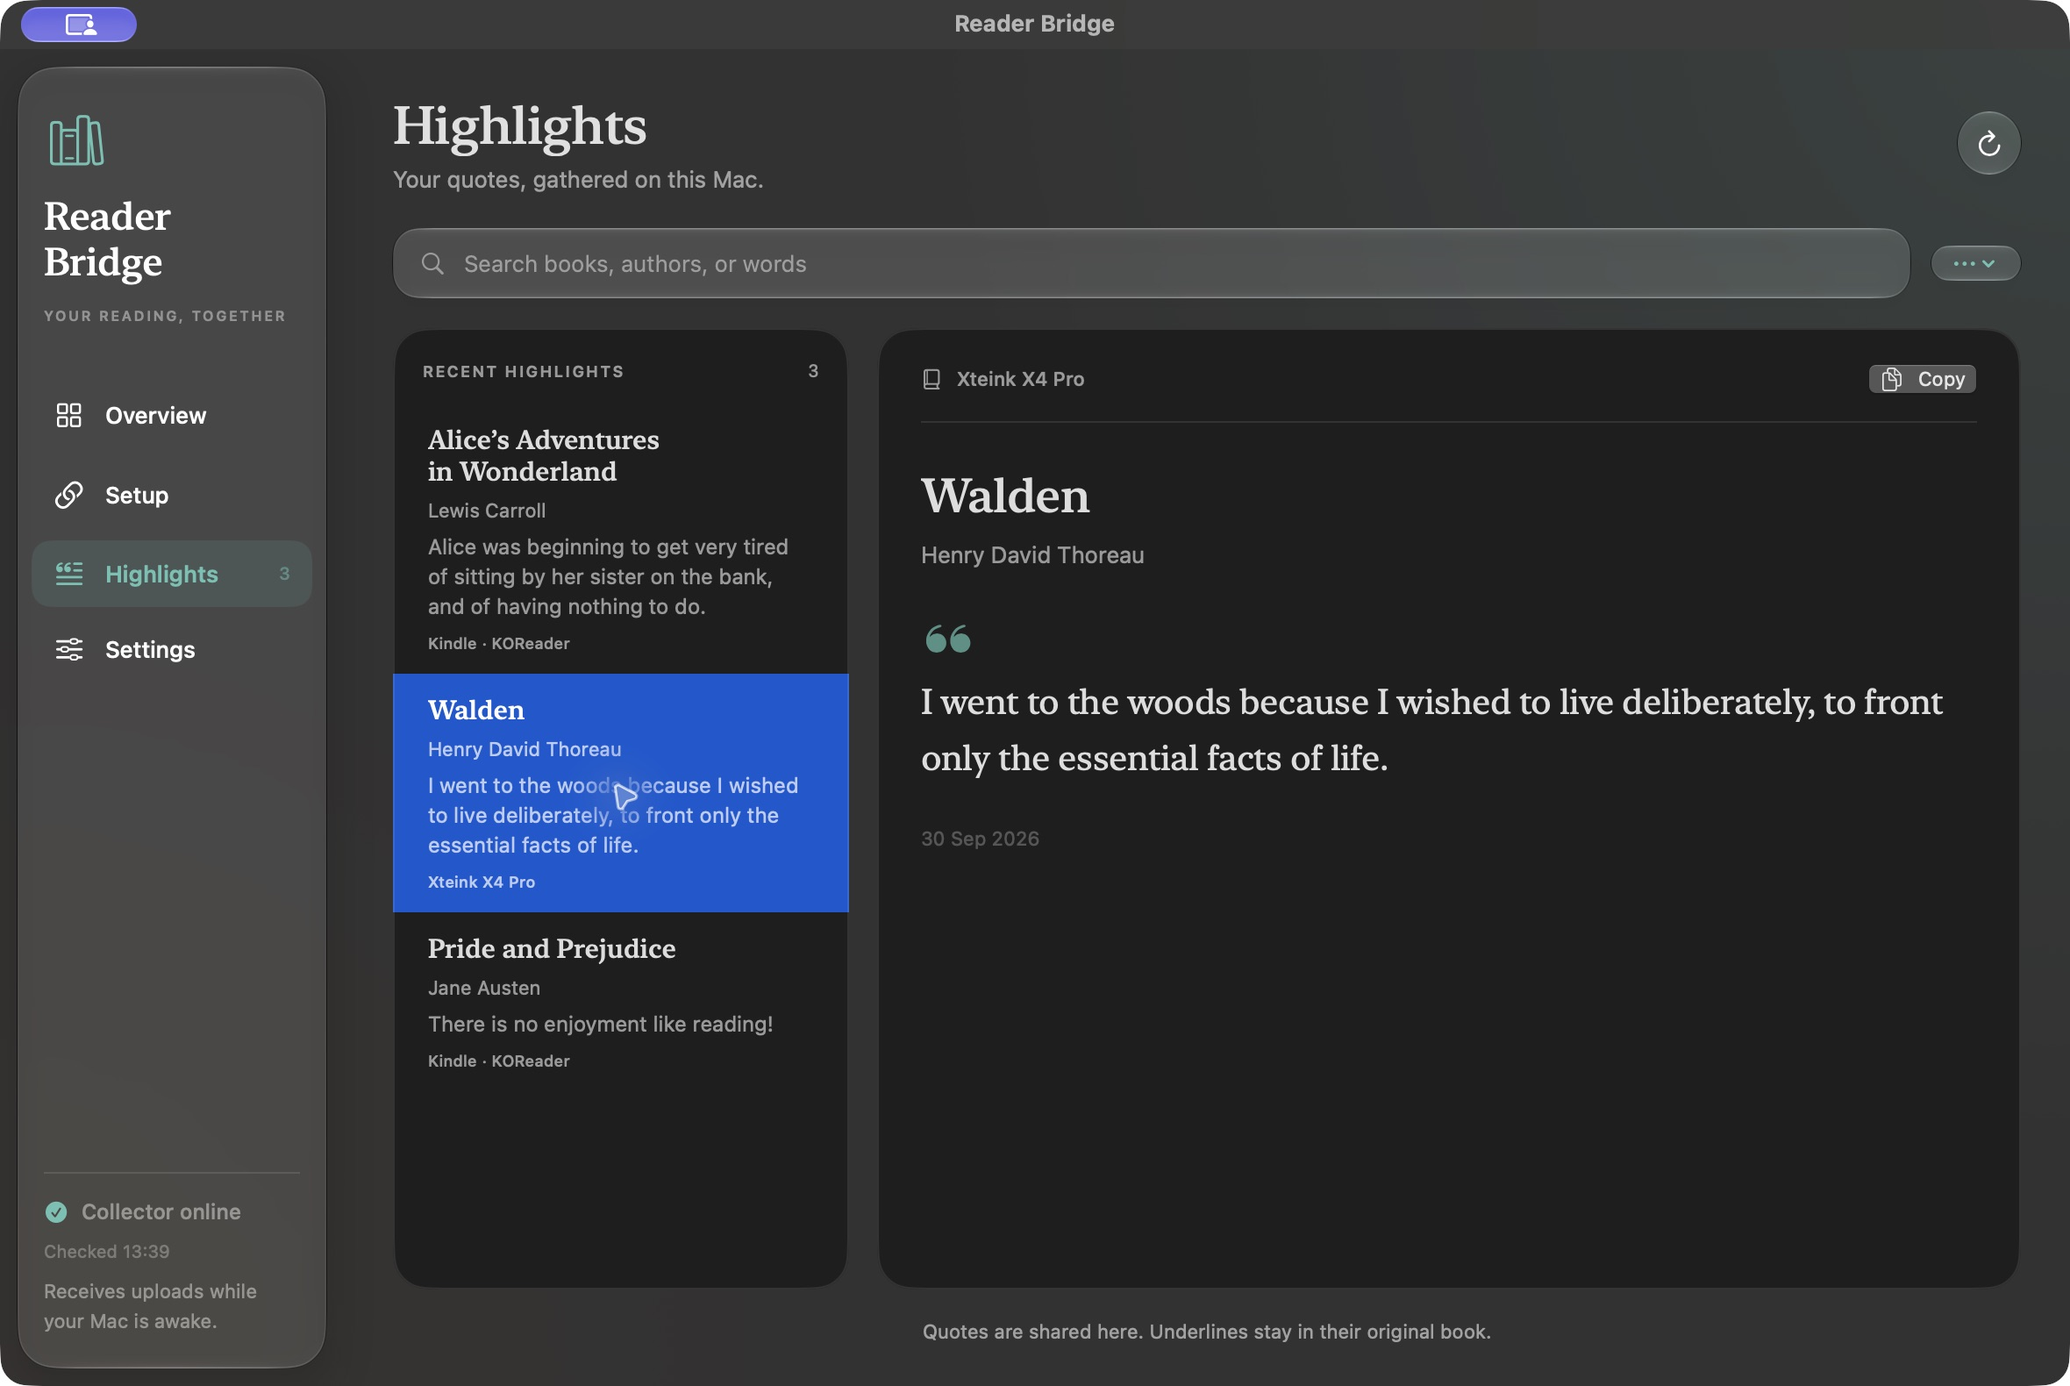
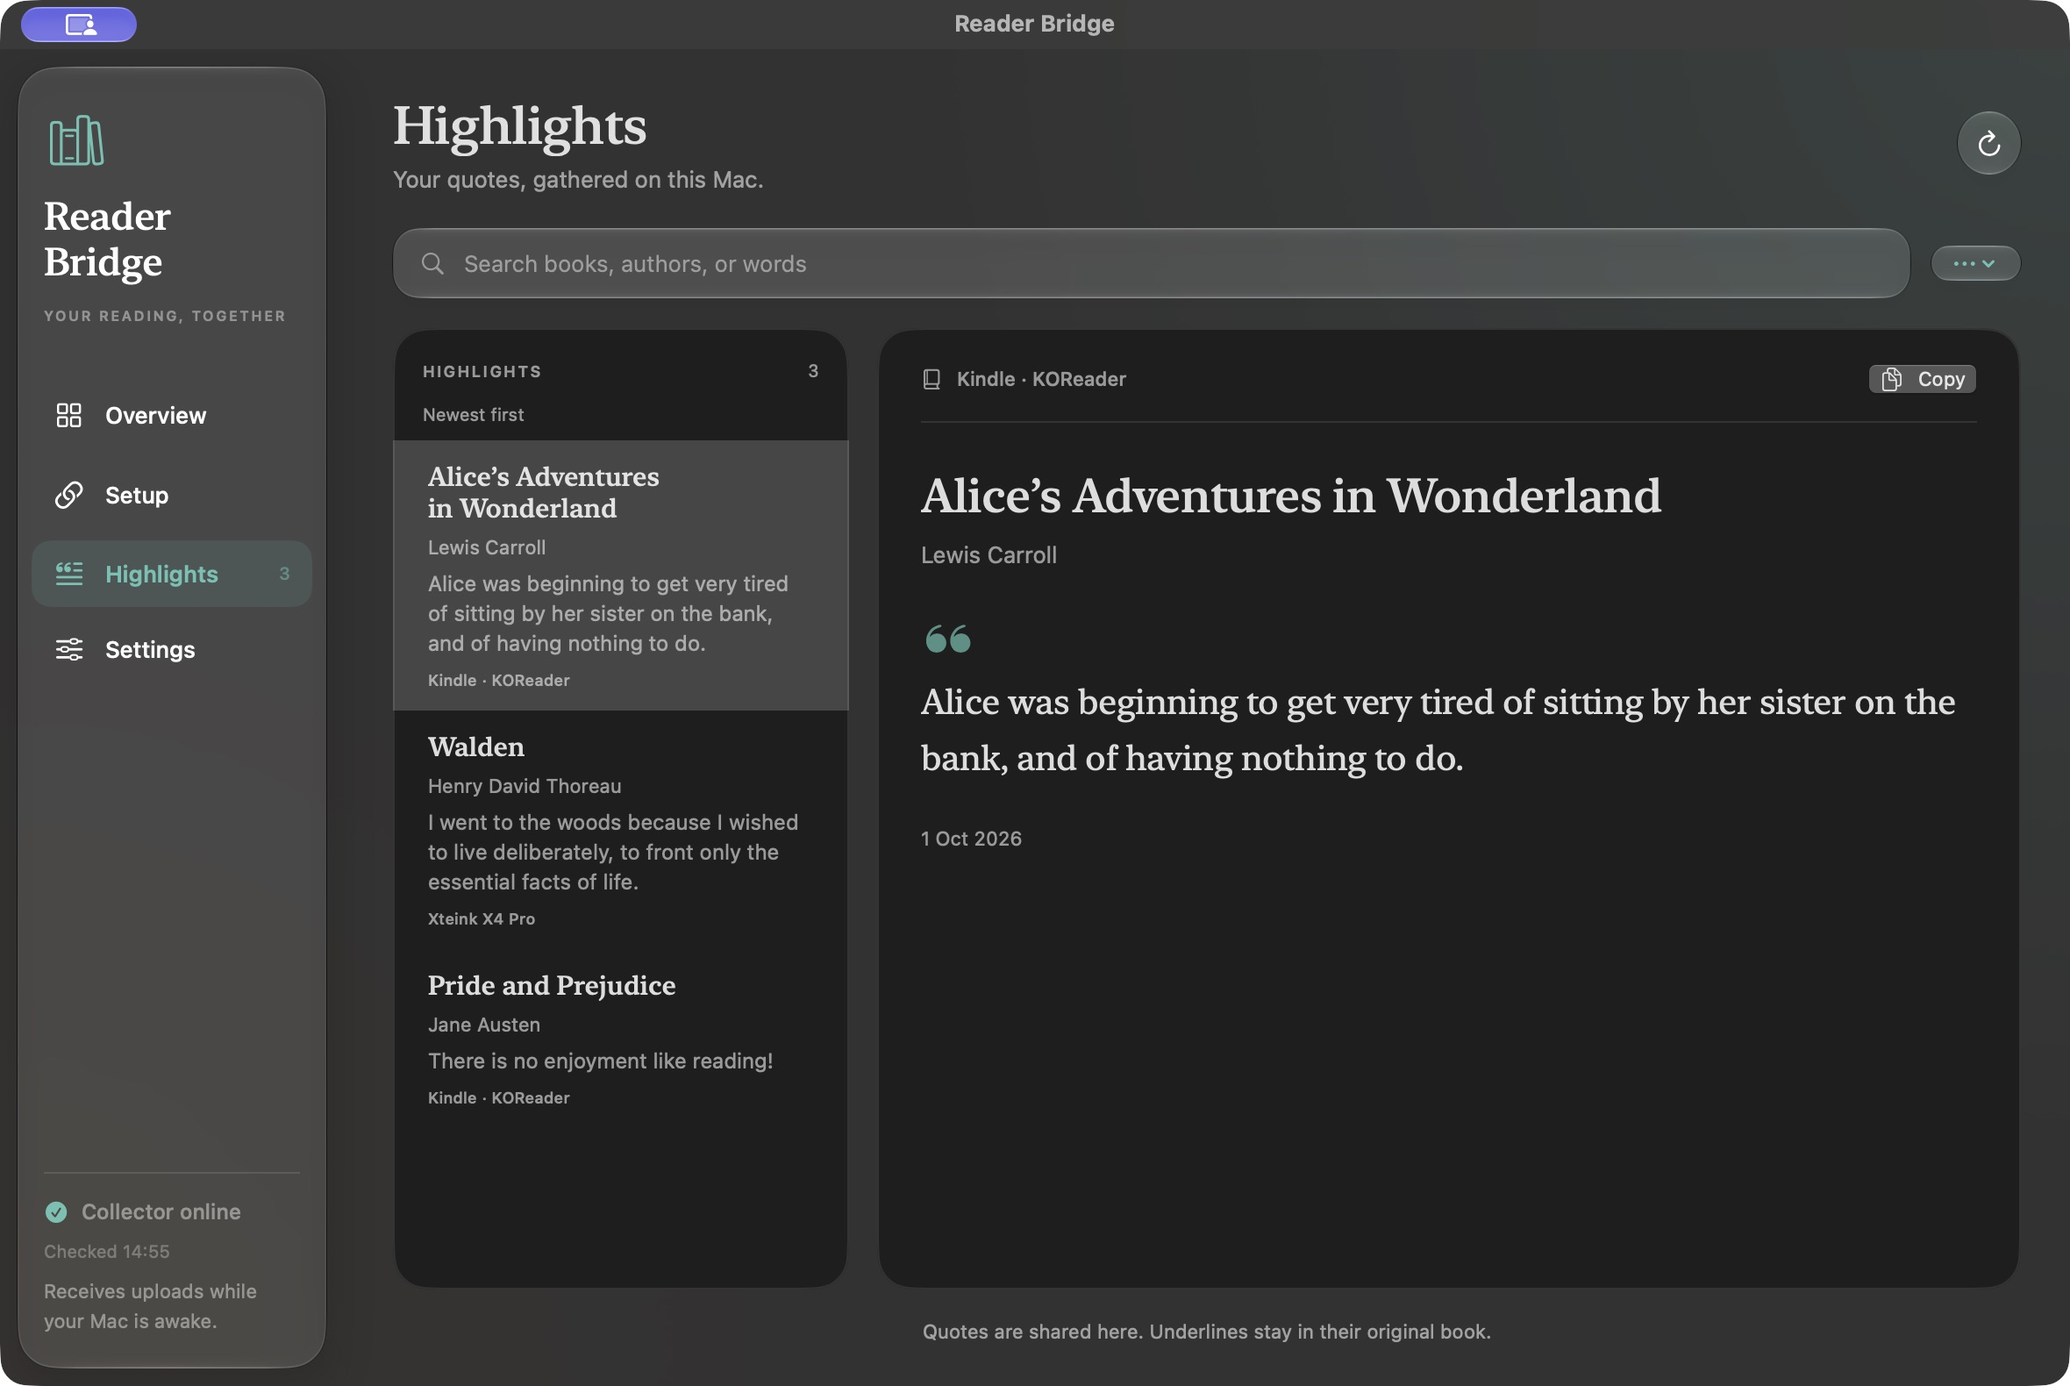
Order undated highlights by book and clarify archive chronology (#8)

Changed region(s): [[0.1856, 0.2481, 0.9589, 0.8063], [0.464, 0.2481, 0.5568, 0.2791]]

diff --git a/desktop/Sources/ReaderBridge/ArchiveViews.swift b/desktop/Sources/ReaderBridge/ArchiveViews.swift
@@ -67,10 +67,15 @@ struct HighlightsView: View {
     private var archiveList: some View {
         VStack(alignment: .leading, spacing: 0) {
             HStack {
-                Text(query.isEmpty ? "RECENT HIGHLIGHTS" : "SEARCH RESULTS").font(.system(size: 9, weight: .semibold)).tracking(1)
+                Text(query.isEmpty ? "HIGHLIGHTS" : "SEARCH RESULTS").font(.system(size: 9, weight: .semibold)).tracking(1)
                 Spacer()
                 Text(filtered.count.formatted()).font(.system(size: 10)).monospacedDigit()
             }.foregroundStyle(.secondary).padding(.horizontal, 17).padding(.top, 18).padding(.bottom, 12)
+            if let order = HighlightPresentation.orderDescription(status.highlightsOrder, undated: status.highlightsUndated) {
+                Text(order).font(.system(size: 10)).foregroundStyle(.secondary)
+                    .padding(.horizontal, 17).padding(.bottom, 8)
+                    .help("Recorded dates sort newest first. Highlights without a recorded date follow, ordered by book and author. Importing a highlight does not give it a new creation date.")
+            }
             List(selection: $selectedID) {
                 ForEach(filtered) { highlight in
                     HighlightArchiveRow(highlight: highlight).tag(highlight.id)
@@ -78,7 +83,7 @@ struct HighlightsView: View {
                 }
             }.listStyle(.plain).scrollContentBackground(.hidden)
             if let matches = status.highlightsMatches, matches > status.highlights.count {
-                Text("Newest \(status.highlights.count) of \(matches). Search covers the full archive.")
+                Text("Showing \(status.highlights.count) of \(matches). Search covers the full archive.")
                     .font(.system(size: 10)).foregroundStyle(.secondary).lineSpacing(3)
                     .padding(.horizontal, 16).padding(.vertical, 12)
             }
@@ -144,9 +149,8 @@ struct HighlightReadingView: View {
                     Image(systemName: "quote.opening").font(.system(size: 24, weight: .light)).foregroundStyle(teal.opacity(0.7)).padding(.top, 30).padding(.bottom, 14).accessibilityHidden(true)
                     Text(highlight.text).font(.system(size: 20, weight: .regular, design: .serif)).lineSpacing(8)
                         .textSelection(.enabled).frame(maxWidth: .infinity, alignment: .leading)
-                    if !highlight.createdAt.isEmpty {
-                        Text(HighlightPresentation.date(highlight.createdAt)).font(.system(size: 11)).foregroundStyle(.tertiary).padding(.top, 27)
-                    }
+                    Text(highlight.createdAt.isEmpty ? "Date not recorded" : HighlightPresentation.date(highlight.createdAt))
+                        .font(.system(size: 11)).foregroundStyle(.secondary).padding(.top, 27)
                 }.padding(25).padding(.bottom, 20)
             }
         }.bridgeSurface().clipShape(RoundedRectangle(cornerRadius: 20, style: .continuous))
@@ -160,6 +164,13 @@ func copyHighlight(_ highlight: Highlight) {
 }
 
 enum HighlightPresentation {
+    static func orderDescription(_ order: String?, undated: Int?) -> String? {
+        switch order {
+        case "book_title": return "By book · dates unavailable"
+        case "newest_first": return (undated ?? 0) > 0 ? "Newest first · undated by book" : "Newest first"
+        default: return nil
+        }
+    }
     static func selection(current: String?, visibleIDs: [String]) -> String? {
         if let current, visibleIDs.contains(current) { return current }
         return visibleIDs.first

diff --git a/desktop/Tests/ReaderBridgeTests/ArchivePresentationTests.swift b/desktop/Tests/ReaderBridgeTests/ArchivePresentationTests.swift
@@ -2,6 +2,15 @@ import XCTest
 @testable import ReaderBridge
 
 final class ArchivePresentationTests: XCTestCase {
+    func testOrderingDescriptionDistinguishesUndatedArchives() {
+        XCTAssertEqual(HighlightPresentation.orderDescription("book_title", undated: 284), "By book · dates unavailable")
+        XCTAssertEqual(HighlightPresentation.orderDescription("newest_first", undated: 0), "Newest first")
+        XCTAssertEqual(HighlightPresentation.orderDescription("newest_first", undated: 12), "Newest first · undated by book")
+    }
+    func testOlderBackendDoesNotInventAnOrderingClaim() {
+        XCTAssertNil(HighlightPresentation.orderDescription(nil, undated: nil))
+        XCTAssertNil(HighlightPresentation.orderDescription("unknown", undated: nil))
+    }
     func testPollingDoesNotMoveTheReadersSelection() {
         XCTAssertEqual(HighlightPresentation.selection(current: "chosen", visibleIDs: ["new", "chosen", "older"]), "chosen")
         XCTAssertEqual(HighlightPresentation.selection(current: "chosen", visibleIDs: ["older", "chosen"]), "chosen")

diff --git a/desktop/Sources/ReaderBridge/Model.swift b/desktop/Sources/ReaderBridge/Model.swift
@@ -12,6 +12,7 @@ struct BridgeStatus: Decodable {
     var mounts: [Mount]; var highlights: [Highlight]; var highlightCount: Int
     var progressVerified: Bool; var endpoint: String; var addresses: [String]; var warnings: [String]; var library: Library
     var highlightsLimit: Int?; var highlightsMatches: Int?
+    var highlightsOrder: String?; var highlightsUndated: Int?
     var existingSetup: ExistingSetup?
     var usesExistingSetup: Bool { existingSetup?.connected == true }
     var offersExistingSetup: Bool { existingSetup?.available == true && !usesExistingSetup }

diff --git a/desktop.py b/desktop.py
@@ -2,6 +2,7 @@
 """Native app JSON bridge. Status caps highlights at 500; count/export cover all live quotes."""
 import argparse
 import contextlib
+from datetime import datetime, timezone
 import fcntl
 import io
 import hashlib
@@ -46,6 +47,26 @@ def bool_arg(value, name):
     if type(value) is not bool:
         raise setup.SetupError(name + ' must be true or false.')
     return value
+
+
+def highlight_date(raw):
+    """Recognize recorded ISO dates, never infer a date from an import or ID."""
+    if not isinstance(raw, str) or not re.fullmatch(
+            r'\d{4}-\d{2}-\d{2}(?:[T ]\d{2}:\d{2}:\d{2}(?:\.\d+)?(?:Z|[+-]\d{2}:\d{2})?)?', raw):
+        return None
+    try:
+        value = datetime.fromisoformat(raw.replace('Z', '+00:00'))
+        # Date-only and timezone-free records keep their recorded wall time.
+        # Use UTC as a stable ordering convention, not the Mac's current zone.
+        return value.replace(tzinfo=timezone.utc) if value.tzinfo is None else value.astimezone(timezone.utc)
+    except (ValueError, OverflowError):
+        return None
+
+
+def highlight_sort_key(row):
+    recorded = highlight_date(row['created_at'])
+    return (recorded is None, -recorded.timestamp() if recorded else 0,
+            row['title'].casefold(), row['author'].casefold(), row['text'].casefold(), row['id'])
 
 
 class Desktop(setup.Bridge):
@@ -331,9 +352,18 @@ class Desktop(setup.Bridge):
                 if item.get('deleted'):
                     continue
                 key = item_key(item)
-                if key not in deleted and key not in rows:
+                if key in deleted:
+                    continue
+                if key not in rows:
                     rows[key] = {'id': key, 'title': item['book_title'], 'author': item['author'], 'text': item['text'], 'source': source, 'created_at': item.get('created_at', '')}
-            return sorted(rows.values(), key=lambda row: (row['created_at'], row['id']), reverse=True), pending
+                else:
+                    recorded = highlight_date(item.get('created_at', ''))
+                    previous = highlight_date(rows[key]['created_at'])
+                    # A duplicate without a date must not hide a recorded one.
+                    # Keep the earliest known creation date of the same passage.
+                    if recorded and (previous is None or recorded < previous):
+                        rows[key]['created_at'] = item['created_at']
+            return sorted(rows.values(), key=highlight_sort_key), pending
 
     def status(self, query=''):
         existing, descriptor = self.existing()
@@ -363,6 +393,7 @@ class Desktop(setup.Bridge):
         if query:
             needle = query.casefold()
             rows = [row for row in rows if any(needle in row[key].casefold() for key in ('title', 'author', 'text'))]
+        undated = sum(highlight_date(row['created_at']) is None for row in rows)
         mounts = []
         try:
             for mount in Path('/Volumes').iterdir():
@@ -409,6 +440,7 @@ class Desktop(setup.Bridge):
                 'kindle': {'paired': bool(kindle.get('installed')), 'connected': bool(kindle.get('mount') and any((Path(kindle['mount']) / p / 'reader.lua').is_file() for p in ('koreader', '.adds/koreader'))), 'mount': kindle.get('mount', '')},
                 'xteink': {'paired': bool(xteink.get('paired')), 'firmware_staged': bool(xteink.get('firmware_staged')), 'url': xteink.get('device_url') or ''},
                 'mounts': mounts, 'highlights': rows[:HIGHLIGHTS_LIMIT], 'highlight_count': count, 'highlights_matches': len(rows), 'highlights_limit': HIGHLIGHTS_LIMIT,
+                'highlights_order': 'newest_first' if undated < len(rows) else 'book_title', 'highlights_undated': undated,
                 'progress_verified': bool(self.state.get('progress', {}).get('verified')), 'endpoint': endpoint or (addresses[0] if addresses else ''), 'addresses': addresses, 'warnings': warnings,
                 'library': {'installed': self.owned('library'), 'port': library.get('port', 8083), 'books': library.get('books', '')}}
 

diff --git a/tests/test_desktop.py b/tests/test_desktop.py
@@ -124,6 +124,54 @@ class DesktopTests(unittest.TestCase):
         self.assertIn('--no-publish', args)
         self.assertNotIn('--repo', args)
 
+    def test_undated_archive_has_readable_order_without_invented_dates(self):
+        self.initialize()
+        records = [dict(self.item(str(i), text), book_title=title, author=author, created_at='')
+                   for i, (title, author, text) in enumerate([
+                       ('Zulu', 'Author', 'Last'), ('alpha', 'Zed', 'Third'),
+                       ('Alpha', 'Anne', 'Second'), ('Alpha', 'Anne', 'First')])]
+        self.store.accept({'source': 'koreader', 'device_id': 'kindle-clippings-import', 'highlights': records})
+        status = self.bridge.status()
+        self.assertEqual([row['text'] for row in status['highlights']], ['First', 'Second', 'Third', 'Last'])
+        self.assertEqual(status['highlights_order'], 'book_title')
+        self.assertEqual(status['highlights_undated'], 4)
+        self.assertTrue(all(row['created_at'] == '' for row in status['highlights']))
+
+    def test_date_order_normalizes_offsets_and_keeps_undated_at_end(self):
+        self.initialize()
+        records = [dict(self.item(str(i), text), book_title=title, created_at=date)
+                   for i, (text, title, date) in enumerate([
+                       ('offset', 'Dated', '2026-10-02T00:30:00+02:00'),
+                       ('utc', 'Dated', '2026-10-01T23:00:00Z'),
+                       ('fraction', 'Dated', '2026-10-01T23:00:00.500Z'),
+                       ('day', 'Dated', '2026-10-01'),
+                       ('naive', 'Dated', '2026-10-01 12:00:00'),
+                       ('missing', 'alpha', ''),
+                       ('invalid', 'Zulu', '2099-99-01')])]
+        self.store.accept({'source': 'koreader', 'device_id': 'fixture', 'highlights': records})
+        status = self.bridge.status()
+        self.assertEqual([row['text'] for row in status['highlights']], ['fraction', 'utc', 'offset', 'naive', 'day', 'missing', 'invalid'])
+        self.assertEqual(status['highlights_order'], 'newest_first')
+        self.assertEqual(status['highlights_undated'], 2)
+        result = self.bridge.status(query='Zulu')
+        self.assertEqual(result['highlights_order'], 'book_title')
+        self.assertEqual(result['highlights_undated'], 1)
+        self.assertEqual(result['highlight_count'], 7)
+
+    def test_deduplication_preserves_earliest_known_creation_date(self):
+        self.initialize()
+        # CrossPoint sorts before KOReader in the inbox; its missing date must
+        # not erase dates recorded by the other source for the same quote.
+        self.store.accept({'source': 'crosspoint', 'device_id': 'x4', 'highlights': [dict(self.item(), created_at='')]})
+        self.store.accept({'source': 'koreader', 'device_id': 'pw', 'highlights': [
+            dict(self.item('later'), created_at='2026-10-01T12:00:00Z'),
+            dict(self.item('earlier'), created_at='2026-09-01T12:00:00Z')]})
+        status = self.bridge.status()
+        self.assertEqual(status['highlight_count'], 1)
+        self.assertEqual(status['highlights_undated'], 0)
+        self.assertEqual(status['highlights'][0]['created_at'], '2026-09-01T12:00:00Z')
+        self.assertEqual(len(self.store.pending()), 3)
+
     @patch.object(desktop.sys, 'platform', 'darwin')
     def test_start_preserves_backup_and_disable_preserves_rows(self):
         self.initialize()

diff --git a/scripts/build-macos.py b/scripts/build-macos.py
@@ -88,8 +88,8 @@ def main():
         info = {
             'CFBundleName': 'Reader Bridge', 'CFBundleDisplayName': 'Reader Bridge',
             'CFBundleIdentifier': 'com.readerbridge.desktop', 'CFBundleExecutable': 'ReaderBridge',
-            'CFBundlePackageType': 'APPL', 'CFBundleShortVersionString': '0.3.0',
-            'CFBundleVersion': '4', 'LSMinimumSystemVersion': '13.0',
+            'CFBundlePackageType': 'APPL', 'CFBundleShortVersionString': '0.3.1',
+            'CFBundleVersion': '5', 'LSMinimumSystemVersion': '13.0',
             'CFBundleIconFile': 'ReaderBridge', 'NSHighResolutionCapable': True,
             'NSLocalNetworkUsageDescription': 'Reader Bridge pairs your readers and receives their highlights on your home network.',
             'NSRemovableVolumesUsageDescription': 'Reader Bridge installs its plugin and pairing settings on the reader you choose.',
@@ -119,7 +119,7 @@ def main():
             raise RuntimeError('Bundled status smoke failed or created data during read-only startup')
         staging.rename(app)
     if args.dmg:
-        dmg = output / f'Reader-Bridge-0.3.0-{architecture}.dmg'
+        dmg = output / f'Reader-Bridge-0.3.1-{architecture}.dmg'
         if dmg.exists():
             parser.error('DMG destination exists; choose a fresh output directory')
         with tempfile.TemporaryDirectory(prefix='reader-bridge-dmg-') as directory:

diff --git a/docs/MAC-APP.md b/docs/MAC-APP.md
@@ -42,6 +42,8 @@ If the original service is offline, the app retains its saved connection and rep
 
 The menu-bar item reports the collector's status and opens the main window. The collector starts after Mac login once installed and keeps running when you close the window or quit the app. The app's **Open at login** setting controls whether its interface also starts at login. Use the collector's stop action to stop accepting uploads.
 
+Highlights with recorded creation dates appear newest first. Undated highlights follow alphabetically by book, author and passage; an entirely undated archive is labeled **By book · dates unavailable**. Importing old quotes does not make them recent, and the app does not invent their original dates. Equivalent passages retain the earliest known recorded date across sources. Timezone offsets are normalized; dates without a timezone use their recorded wall time as UTC for deterministic ordering.
+
 In **Highlights**, select a quote to read or copy it. Search covers book titles, authors, and quote text. The archive menu beside search contains Kindle-clippings import and JSON export. Use **⌘F** to search, **⌘1–4** to move between sections, and **⌘R** to refresh. Routine status checks run quietly in the background.
 
 ![Reader Bridge highlight archive with public-domain sample quotes](images/mac-highlights-dark.jpg)
@@ -86,6 +88,10 @@ Build with `--sign-identity 'Developer ID Application: …'` on the matching arc
 Test both upgrade and fresh install, including Mac logout/login, service restart, port conflicts, unavailable network/GitHub, incomplete pairing, queued uploads after reconnecting, and deletion replay. Intel builds and the full physical first-run walkthrough must be independently verified before claiming support.
 
 The app package bundles third-party runtime notices under Resources. Firmware remains a source build until its separate dependency redistribution review is complete.
+
+## Ordering correction in 0.3.1
+
+The ordering fix passed 74 Python tests and 22 Swift tests. Regression coverage includes timezone offsets, fractional seconds, missing/invalid dates, date-preserving deduplication and labels for undated archives. Both dated and undated layouts were checked in an isolated native preview. No stored highlight or deletion data is rewritten by this change.
 
 ## Development acceptance on 1 October 2026
 
